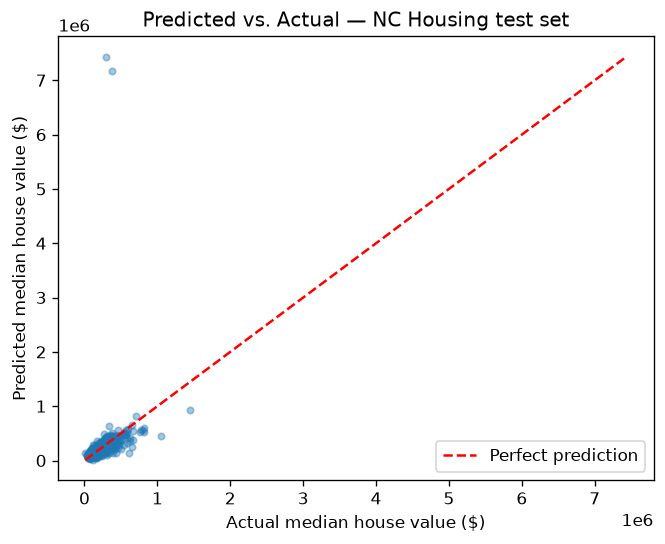
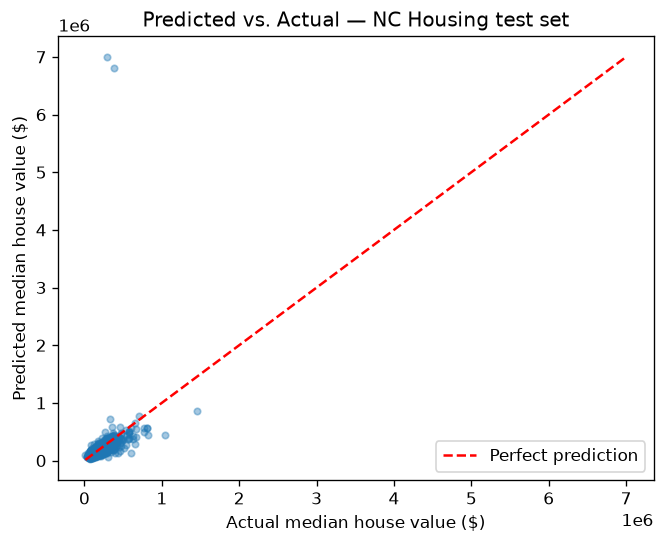
update_07_13

diff --git a/module5/nc_housing_model_v1.py b/module5/nc_housing_model_v1.py
@@ -157,7 +157,7 @@ def main(data_path, show=False, quick=False, final_epochs=None):
     print(f"Mean MAE (scaled): {mean_mae_scaled:.3f}  ->  ${mean_mae_scaled * TARGET_SCALE:,.0f} off, on average")
 
     # ---- K-fold validation: record the full MAE history per epoch ----
-    num_epochs = 30 if quick else 200
+    num_epochs = 30 if quick else 50
     all_mae_histories = []
     for i in range(k):
         print(f"Processing fold #{i + 1}")
@@ -208,7 +208,7 @@ def main(data_path, show=False, quick=False, final_epochs=None):
     # ---- Train the final model and evaluate on the test set ----
     # Default final_epochs below is a placeholder — replace it with the epoch
     # where YOUR truncated curve above actually flattens (pass --final-epochs N).
-    epochs_to_use = final_epochs or (30 if quick else 100)
+    epochs_to_use = final_epochs or (30 if quick else 50)
     model = get_model(x_train.shape[1])
     model.fit(x_train, y_train, epochs=epochs_to_use, batch_size=16, verbose=0)
     test_mse, test_mae = model.evaluate(x_test, y_test)
@@ -237,9 +237,21 @@ def main(data_path, show=False, quick=False, final_epochs=None):
     plt.legend()
     _output(plt, "nc_housing_pred_vs_actual.png", show)
 
+    residuals = predictions_dollars - actual_dollars
+
+    # ---- Diagnostic: inspect worst residuals (data vs. model check) ----
+    worst_idx = np.argsort(np.abs(residuals))[-3:]
+    print("\nWorst residuals — check these for data vs. model issues:")
+    for idx in worst_idx:
+        orig_row = test_idx[idx]
+        print(f"  Predicted=${predictions_dollars[idx]:,.0f}  "
+              f"Actual=${actual_dollars[idx]:,.0f}  "
+              f"Error=${residuals[idx]:,.0f}")
+        print(df.iloc[orig_row])
+        print()
+
     # ---- Error graph 2: residual (error) distribution ----
     plt.clf()
-    residuals = predictions_dollars - actual_dollars
     plt.hist(residuals, bins=30)
     plt.xlabel("Prediction error ($)  [predicted − actual]")
     plt.ylabel("Count")

diff --git a/module5/nc_housing_notes_v2.md b/module5/nc_housing_notes_v2.md
@@ -1,0 +1,30 @@
+# Session Summary — NC Housing Model, Outlier Investigation
+**Date:** July 13, 2026
+**Course:** CSC 114, Section 1001
+
+---
+
+## What we were looking into
+
+Our model's error chart (the residual plot) looked off — most of the errors were bunched near zero, but the chart stretched way out to the right, which meant a few predictions were wildly wrong. We set out to figure out why.
+
+## What we found
+
+There were two different kinds of outliers, and they turned out to have two different explanations:
+
+**1. Bad data — confirmed and fixable.**
+Two rows in the dataset listed a house's age as 2000 years old. That's obviously a data entry error, not a real house. These rows were skewing the model's training, so the plan is to **remove them** before the next run.
+
+**2. Not bad data — a real, unusual house.**
+A separate outlier turned out to be a legitimate expensive home in the Charlotte area — the model just didn't predict its price well. We traced this one back to the original spreadsheet and confirmed the numbers are accurate; the house is just genuinely unusual (very high income and value for the area), and the model struggled to guess it correctly. This isn't a data problem — it's a case where the model needs more work to handle unusual, high-end properties.
+
+## Where things stand
+
+- The model's k-fold results are coming back fairly consistent across folds, which is a good sign the setup itself is stable.
+- Training is currently locked to 50 epochs, mainly to keep runs fast while we debug.
+
+## Plan for next session
+
+1. Remove the two bad-age rows and re-run the model.
+2. Take a closer look at the legitimate outlier (the expensive Charlotte house) and think through why the model missed it and whether anything can be done about it.
+
